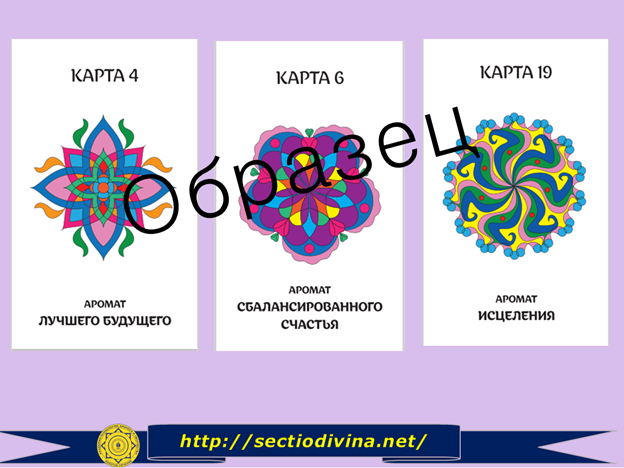
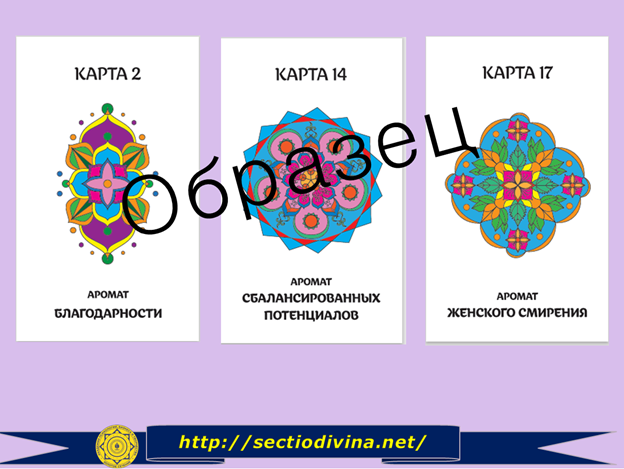
обновил код

diff --git a/index.html b/index.html
@@ -53,11 +53,11 @@
       <div class="position-card">
         <div class="info infos1" id="info1">
           <h1 class="main-text1">Карта № 1</h1>
-          <h2 class="main-text2">Аромат лучшего будущего.</h2>
+          <h2 class="main-text2">Аромат благодарности.</h2>
           <p class="cart1">
-            * Появление этой карты в раскладе говорит о том, что в вашей жизни есть та область, где вы испытываете страх потерять определенный комфорт и сейчас вы можете поработать с этим страхом, который мешает вам двигаться вперед. 
-* Проанализируйте, как давно вы стремились изменить что-либо в вашей жизни к лучшему? Считаете ли вы, что достойны этого лучшего?
-* Появляется ли у вас беспокойство, когда вы оказываетесь в выигрышной ситуации?
+            * Появление этой карты в раскладе говорит о том, что сейчас в вашей жизни имеет место проявление такого понятия как «Благодарность». 
+*Умеете ли вы быть благодарным людям за проявленное ими участие в вашей жизни? Проявляете ли вы благодарность искренне или чувствуете себя обязанным проявить ответное добро? Выскажите сейчас свою благодарность вашим близким.
+*Благодарны ли вы самой природе за каждый наступивший день, за возможность жить на нашей Земле? 
             <div class="number-cart">
               Пишите номер карты нам в ответном письме и получите доступ к медитации на платформе геткурс.
             </div> 
@@ -71,14 +71,10 @@
   
         <div class="info infos1" id="info2">
           <h4 class="main-text3">Карта № 2</h4>
-          <h5 class="main-text4">Аромат сбалансированного счастья.</h5>
+          <h5 class="main-text4">Аромат сбалансированных потенциалов.</h5>
           <p class="cart2">
-            *Появление этой карты в раскладе говорит о том, что пришла пора пересмотреть вашу позицию в отношении брать и давать. Проанализируйте ваши взаимоотношения с окружающими, родственниками, друзьями, коллегами:
--  Где происходит дисбаланс? 
-- Насколько вы умеете принимать дары Вселенной в любом виде и насколько взвешенно вы можете отдавать то, что необходимо отдать. 
-- Есть ли у вас проблемы со «спасательством»? Пытаетесь ли вы спасать кого-то, даже если вас об этом не просят. Что происходит в результате?
-- Как давно вы чувствовали себя счастливым и беззаботным? 
-- Устраивает ли вас ваше настоящее?
+            * Появление этой карты в раскладе говорит о том, что сейчас для вас важно создать баланс между духовным и материальным аспектами вашей жизни. Проанализируйте, не отрицаете ли вы один из этих аспектов. Или не придаете ли намного больше значения духовной или материальной стороне вашей жизни.
+*Необходимо помнить, что счастье и душевный покой приходят тогда, когда наши духовные и материальные интересы сбалансированы. Когда мы не хотим больше того, что нам нужно, но и не отказываем себе в своих желаниях. Когда мы идем своей дорогой, занимаемся своим делом, не стесняемся брать деньги за свою работу, но при этом честны и щедры и умеем ценить то, что дает жизнь.
             <div class="number-cart">
               Пишите номер карты нам в ответном письме и получите доступ к медитации на платформе геткурс.
             </div> 
@@ -93,16 +89,11 @@
             Карта № 3 
           </h6>
           <h7 class="main-text6">
-            Аромат исцеления.
+            Аромат женского смирения.
           </h7>
           <p class="cart3">
-            * Появление этой карты в раскладе говорит о том, что тема исцеления сейчас как никогда близка вам. Путь к исцелению всегда начинается через самопознание. Вы единственный, кто сможет себе помочь. Давайте раскроем ваши возможности по исцелению:
-- У вас есть собственные силы на исцеление.
-- Ваше исцеление — ваша ответственность
-- Исцелите душу, а следом исцелятся разум и тело
-- Единственный способ действовать — изменяться
-- Прощение освобождает вас, а благодарность и любовь исцеляет
-* Быть целостным – значит погружаться в себя всем сердцем и с пониманием встречать даже отсутствие любви, даже свою бессердечность. Быть целостным – значит принимать, действовать без насилия, меняться, доверять происходящему.
+            *Появление этой карты в раскладе говорит о том, что сейчас на вашу жизненную ситуацию влияет дисбаланс Инь (женское начало) -Ян (мужское начало). Так как это карта аромат женского смирения, то мы будем говорить о том, что сейчас у вас превалирует именно женская энергия Инь.                                                                                                                         *Первый вариант - Вы можете чувствовать апатию, инертность и безразличие к активной деятельности, каким-то стремлениям. Нет желания брать на себя ответственность. Вы становитесь ведомым, погружаетесь в фантазии и иллюзии. Здесь необходимо направить свое внимание на спорт, который развивает силу воли, настойчивость, способность бороться. Занимайтесь танцами, подвижными играми. Не уходите от ответственности, действуйте!  
+*Второй вариант – Ваша жизненная ситуация требует сейчас от вас проявления именно Иньской энергии. Это оказание кому-то поддержки, заботы, внимания, чуткости. Для решения возникших проблем нужно обратиться к своей интуиции, заняться медитацией, йогой.
             <div class="number-cart">
               Пишите номер карты нам в ответном письме и получите доступ к медитации на платформе геткурс.
             </div> 
